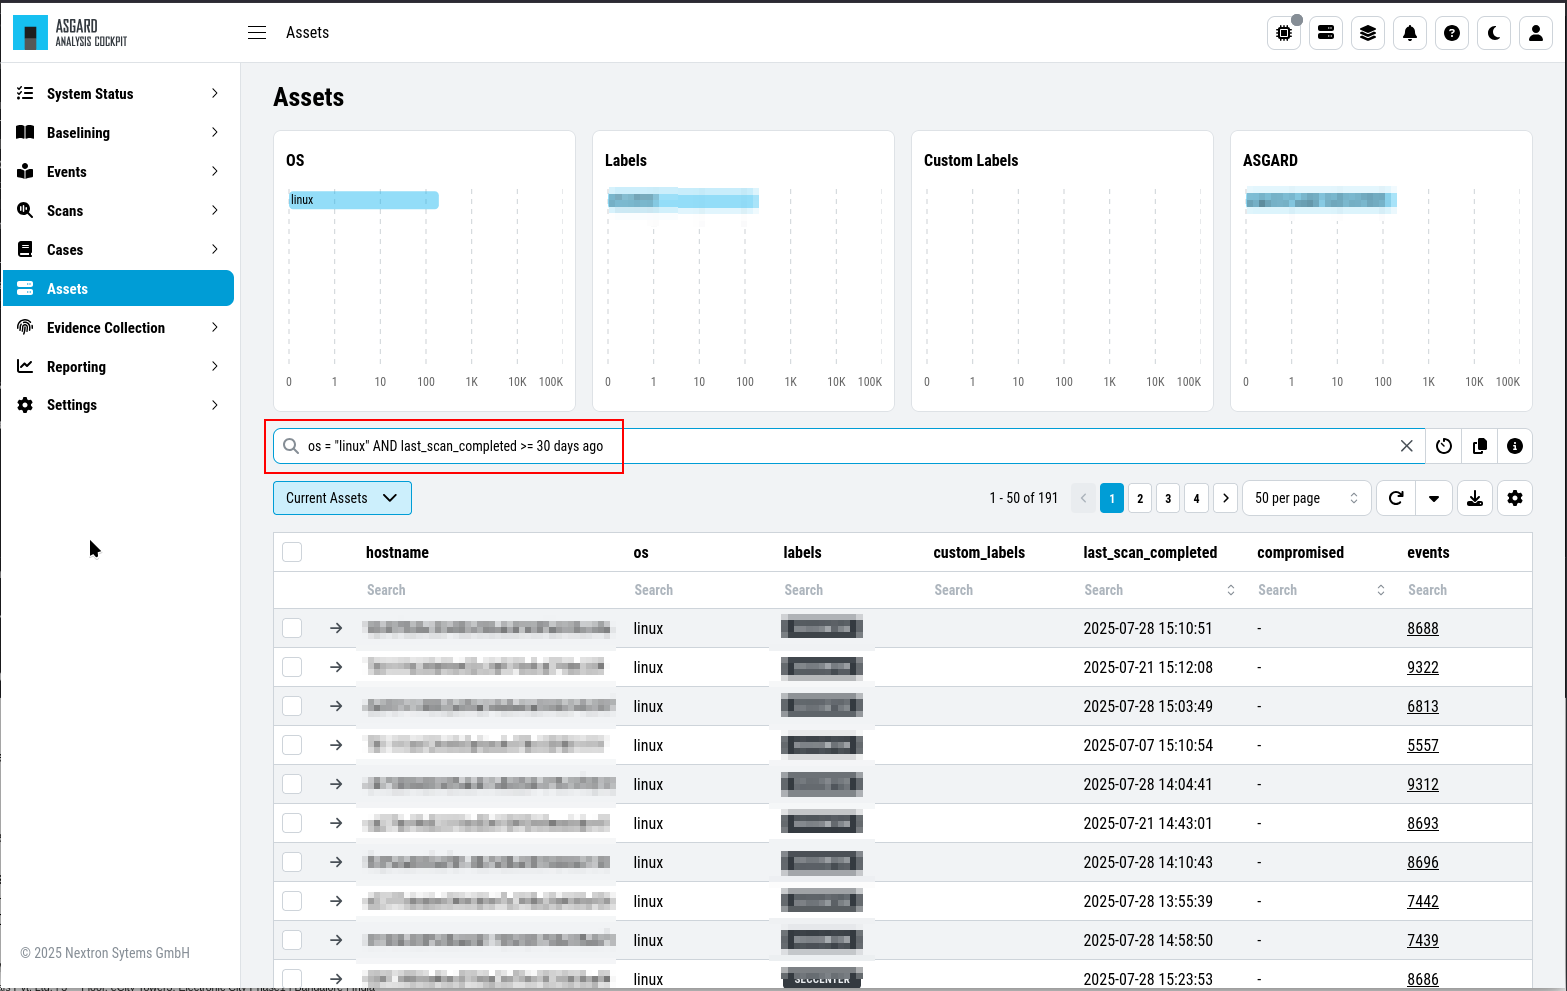
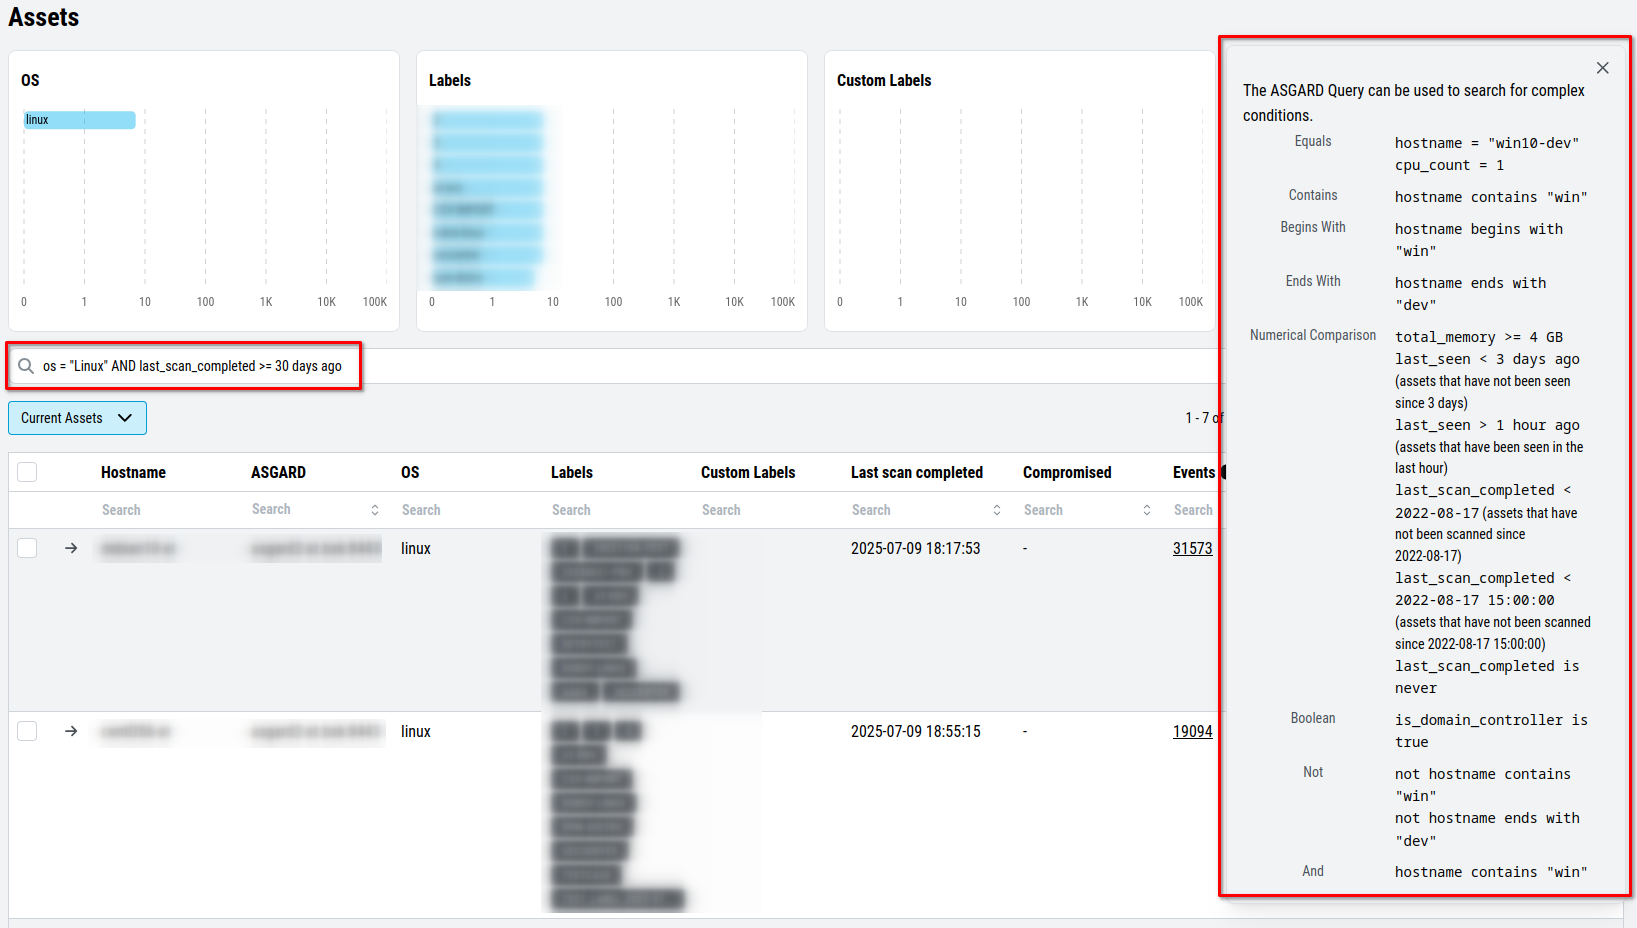
Feat/4.3 gg (#62)
* chore: Change proposals

* fix: indentations

* chore: Change proposals

---------

diff --git a/conf.py b/conf.py
@@ -2,7 +2,7 @@ import os
 
 project = 'ASGARD Analysis Cockpit v4 Manual'
 version="4.0"
-copyright = '2023, Nextron Systems GmbH'
+copyright = '2025, Nextron Systems GmbH'
 author = 'Nextron Systems'
 extensions = [
     'sphinx.ext.autosectionlabel',

diff --git a/requirements/introduction.rst b/requirements/introduction.rst
@@ -4,15 +4,15 @@ Introduction
 ============
 
 The ASGARD Analysis Cockpit is the central platform for analyzing THOR
-events and SIGMA matches generated by your THOR scanner.
+events and SIGMA matches generated by your `THOR scanner <https://thor-manual.nextron-systems.com/en/latest/>`_.
 
 It can be used in an environment where scans results can be
-automatically collected from ASGARD Management Centers or
+automatically collected from `ASGARD Management Centers <https://asgard-manual.nextron-systems.com/en/latest/index.html>`_ or
 environments in which THOR is executed by scripts or any other
-3\ :sup:`rd` party solution. An active integration with THOR Cloud
+3\ :sup:`rd` party solution. An active integration with `THOR Cloud <https://www.nextron-systems.com/thor-cloud/>`_
 can also be used to fetch events from your Cloud tenant.
 
-While THOR can also be seen or used as hunting solution THOR is
+While THOR can also be seen or used as hunting solution, THOR is
 optimized to avoid false negatives – meaning optimized to not miss an
 indicator of compromise. On the other side this clearly leads to more
 anomalies and false positives being reported.

diff --git a/administration/amc.rst b/administration/amc.rst
@@ -49,11 +49,13 @@ By using the "Asset View" you can easily answer questions like:
 You can also set a time when an asset was compromised. This is useful
 when you want to see which systems were compromised in the last 30 days.
 
-In combination with the ``ASGARD Query`` and ``Labels``, which are identical
-to your ASGARD, you can even narrow down the events by system group
+In combination with the ``ASGARD Query`` and ``Labels``, which are pinned to your assets,
+you can even narrow down the events by system group
 (e.g., Domain Controllers, or certain locations).
 
 .. figure:: ../images/cockpit_asgard_query.png
    :alt: Filtering within the Assets View 
 
    Filtering within the Assets view
+
+For more ``ASGARD Query`` examples, please open the Query Help on the right of the query input field (info icon).

diff --git a/setup/components.rst b/setup/components.rst
@@ -65,7 +65,9 @@ a browser warning when you connect the first time to
 the page. This is due to the page using a self signed
 certificate, since it will only be used to install the
 ASGARD Analysis Cockpit. You can safely ignore this
-warning and proceed to the page.
+warning and proceed to the page. Once the installation
+is complete, the certificate can be replaced by a signed
+certificate (see :ref:`administration/system-settings:tls certificate installation`)
 
 You will be greeted with a small introduction as to what
 the Nextron Universal Installer is and what it does. After

diff --git a/glossary/resources.rst b/glossary/resources.rst
@@ -3,5 +3,8 @@
 Additional Resources
 ====================
 
+Suggested solutions for special problems and Tips & Tricks are
+available in our `Knowlegde Base <https://support.nextron-systems.com>`_.
+
 We created a few videos to help explain some topics in a more visual way.
 You can find them on our `YouTube Playlist <https://www.youtube.com/watch?v=xn856bIDakw&list=PL8OlALxRcWsQ-ZwvPTdQxo4IO6pHip4Qb>`_.

diff --git a/administration/api.rst b/administration/api.rst
@@ -10,3 +10,10 @@ You can find it in the top right corner's help menu.
    :alt: API Documentation
 
    API Documentation
+
+To test the API in the web interface, copy the API key from your user settings into the key field.
+
+.. figure:: ../images/cockpit_api_key.png
+   :alt: API Key
+
+   API Key
